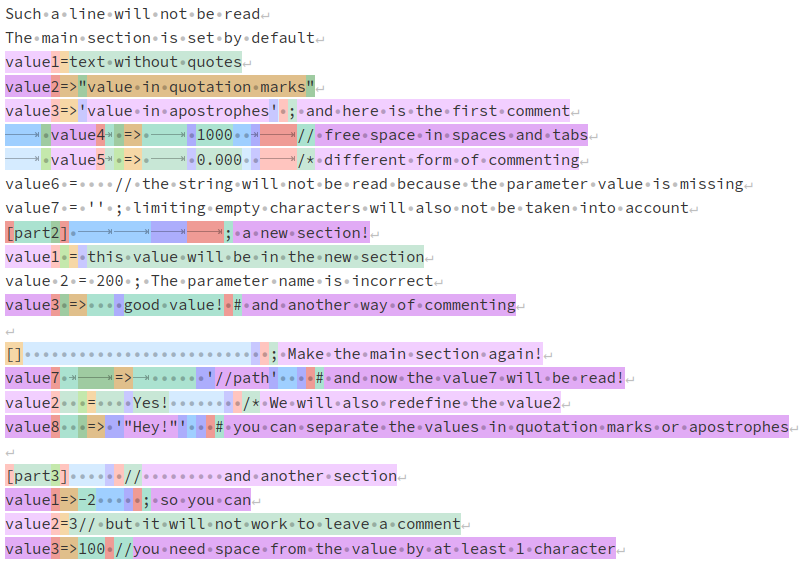
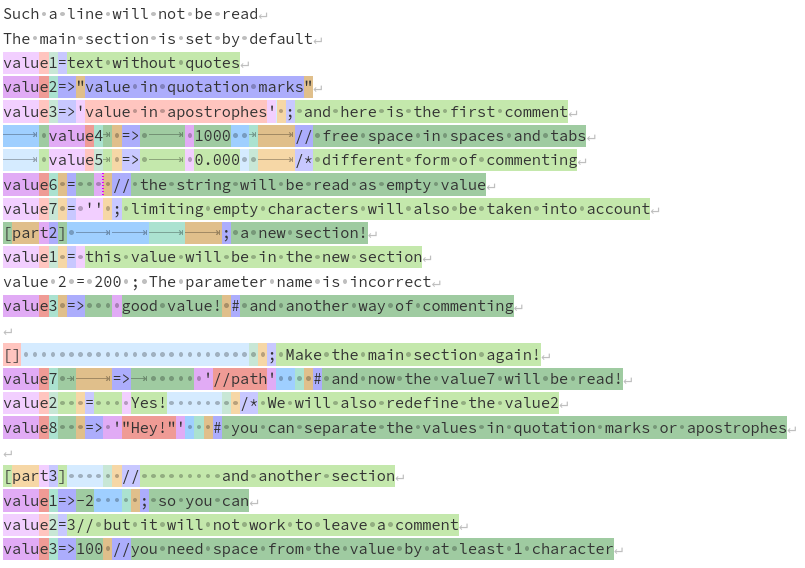
- Reading empty parameter values - Parameter name as a single character - Generating an exception when accessing a non-existent section

diff --git a/README.md b/README.md
@@ -34,15 +34,15 @@ void main()
 {
     rc.read("./tests/settings.conf");
 
-    foreach (key, param; rc.sn.keys())
+    foreach (key, param; rc.cf.sn.keys())
         writefln("%s => %s", key, param);
 
-    writeln(rc.sn.key("value1"));
+    writeln(rc.cf.sn.key("value1"));
 
-    foreach (key, param; rc.sn("part2").keys())
+    foreach (key, param; rc.cf.sn("part2").keys())
         writefln("%s => %s", key, param);
 
-    writeln(rc["part2"]["value1"]);
+    writeln(rc[]["part2"]["value1"]);
 }
 ```
 
@@ -54,6 +54,7 @@ value2 => Yes!
 value3 => value in apostrophes
 value4 => 1000
 value5 => 0.000
+value6 =>
 value7 => //path
 value8 => "Hey!"
 text without quotes
@@ -68,14 +69,14 @@ The unittests provide [examples](examples/) of configuration files and the `sett
 
 ```sh
 Running bin/readconf-test-unittest 
+ ✓ test __unittest_L111_C1
+ ✓ test __unittest_L26_C1
+ ✓ test __unittest_L52_C1
  ✓ test __unittest_L4_C1
- ✓ test __unittest_L106_C1
- ✓ test __unittest_L25_C1
- ✓ test __unittest_L51_C1
 
 Summary: 4 passed, 0 failed in 7 ms
 ```
 
 ## DUB
 
-Add a dependency on `"readconf": "~>0.3.1"`
+Add a dependency on `"readconf": "~>0.4.0"`

diff --git a/CHANGELOG.md b/CHANGELOG.md
@@ -1,5 +1,16 @@
 # Changelog
 
+## [v0.4.0](https://git.zhirov.kz/dlang/readconf/compare/v0.3.1...v0.4.0) (2023.06.07)
+
+### New
+
+- Reading empty parameter values
+- Parameter name as a single character
+
+### Bug fixes
+
+- Generating an exception when accessing a non-existent section
+
 ## [v0.3.1](https://git.zhirov.kz/dlang/readconf/compare/v0.3.0...v0.3.1) (2023.04.30)
 
 - Windows OS support
